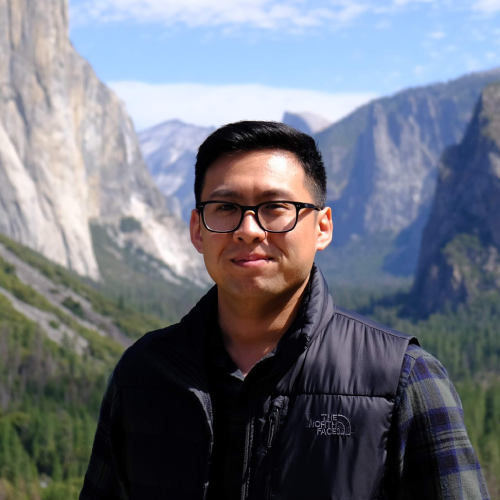
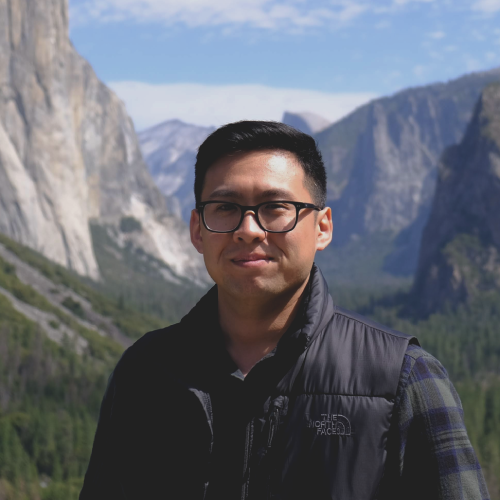
readme file added

diff --git a/src/styles/index-styles.css b/src/styles/index-styles.css
@@ -1,6 +1,6 @@
 /* Main */
 main {
-  background: url("../images/hero.jpg") no-repeat center center fixed;
+  background: url("../images/background.jpg") no-repeat center center fixed;
   background-size: cover;
   display: flex;
   justify-content: center;
@@ -55,6 +55,34 @@ main {
   border: 1px solid white;
   background-color: white;
   padding: 1em;
+}
+@-webkit-keyframes .large-btn {
+  0% {
+    transform: scale(0.9);
+  }
+  25% {
+    transform: scale(1);
+  }
+  60% {
+    transform: scale(0.9);
+  }
+  100% {
+    transform: scale(1);
+  }
+}
+@keyframes .large-btn {
+  0% {
+    transform: scale(0.9);
+  }
+  25% {
+    transform: scale(1);
+  }
+  60% {
+    transform: scale(0.9);
+  }
+  100% {
+    transform: scale(1);
+  }
 }
 
 /* On screens that are 900px wide or less, the background color is blue */

diff --git a/src/styles/about-styles.scss b/src/styles/about-styles.scss
@@ -5,11 +5,12 @@ main {
     flex-direction: row;
     justify-content: center;
     article{
-        width: 45vw;
+        width: 40vw;
     }
     #photo{    
         align-self:flex-start;
-        height: 20vw;
+        height: 35vw;
+        max-height: 60vh;
         margin: 4rem 0 0 2rem;
     }
 }
@@ -52,7 +53,7 @@ h3{
         #photo{
             align-self: center;
             height: 100%;
-            width: 30vw;
+            width: 50vw;
             margin: 2rem 0 0 0;
         }
     }
@@ -73,8 +74,8 @@ h3{
     }
     #photo{
         align-self: center;
-        height: 100%;
-        width: 30vw;
+        height: auto;
+        width: 50vw;
         margin: 2rem 0 0 0;
     }
 

diff --git a/src/styles/about-styles.css b/src/styles/about-styles.css
@@ -4,11 +4,12 @@ main {
   justify-content: center;
 }
 main article {
-  width: 45vw;
+  width: 40vw;
 }
 main #photo {
   align-self: flex-start;
-  height: 20vw;
+  height: 35vw;
+  max-height: 60vh;
   margin: 4rem 0 0 2rem;
 }
 
@@ -41,7 +42,7 @@ h3 .large-btn:hover {
   main #photo {
     align-self: center;
     height: 100%;
-    width: 30vw;
+    width: 50vw;
     margin: 2rem 0 0 0;
   }
   .large-btn {
@@ -55,8 +56,8 @@ h3 .large-btn:hover {
   }
   #photo {
     align-self: center;
-    height: 100%;
-    width: 30vw;
+    height: auto;
+    width: 50vw;
     margin: 2rem 0 0 0;
   }
 }/*# sourceMappingURL=about-styles.css.map */

diff --git a/src/about.html b/src/about.html
@@ -24,7 +24,7 @@
     <h1>About Me</h1>
     <main>
         <article>
-            <H2>Hi, I'm Kenny Lai.</h1>
+            <H2>Hi, I'm Kenny Lai</h1>
             <p>I'm a Melbourne based web developer, problem solver, and coffee enthusiast. Recently I have begun my journey into tech undertaking a web development bootcamp with Coder Academy.<p>
             <p>Coming from the high-pressure fast-paced construction industry, I bring with me a background of collaborative working, effective communication, and time management.</p>
 

diff --git a/src/styles/index-styles.scss b/src/styles/index-styles.scss
@@ -4,7 +4,7 @@
 
 /* Main */
 main{
-    background: url("../images/hero.jpg") no-repeat center center fixed;
+    background: url("../images/background.jpg") no-repeat center center fixed;
     background-size: cover;
     display: flex;
     justify-content: center;
@@ -63,6 +63,14 @@ main{
         background-color:  white;
         padding: 1em;
     }
+    @keyframes .large-btn{
+		0%{transform: scale(.9);}
+		25%{transform: scale(1);}
+		60%{transform: scale(.9);}
+		100%{transform: scale(1);}
+	}
+
+
 }
 
 

diff --git a/src/styles/global-styles.scss b/src/styles/global-styles.scss
@@ -159,6 +159,12 @@ footer{
 
 // screens 550px wide or less (Phones)
 @media screen and (max-width: 550px) { 
+    // Header and navigation buttons
+        header .nav-btn{
+            margin: 0.5rem 0.5rem;
+        }
+    
+
     #logo {
         width: 35%;
         margin: 5px 15px;

diff --git a/src/styles/global-styles.css b/src/styles/global-styles.css
@@ -96,6 +96,9 @@ footer {
   }
 }
 @media screen and (max-width: 550px) {
+  header .nav-btn {
+    margin: 0.5rem 0.5rem;
+  }
   #logo {
     width: 35%;
     margin: 5px 15px;

diff --git a/src/styles/contact-styles.scss b/src/styles/contact-styles.scss
@@ -16,6 +16,9 @@ main{
     }
 }
 
+
+
+
 // Social media icons
 
 #social-btn{
